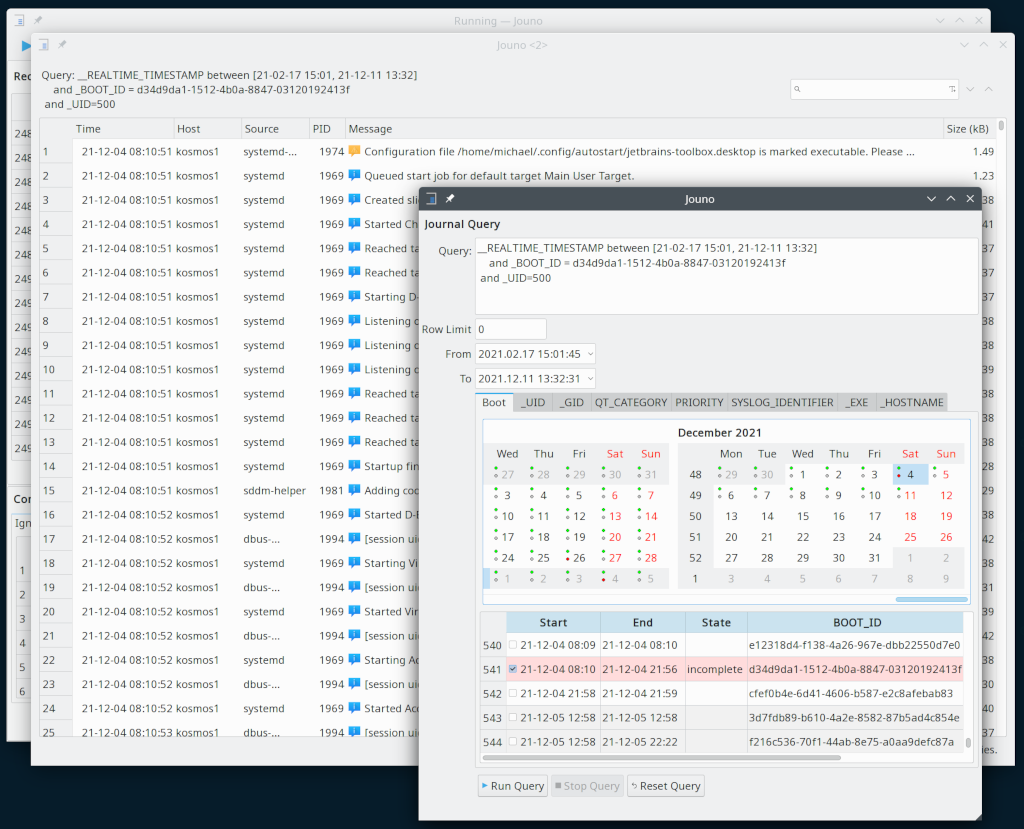
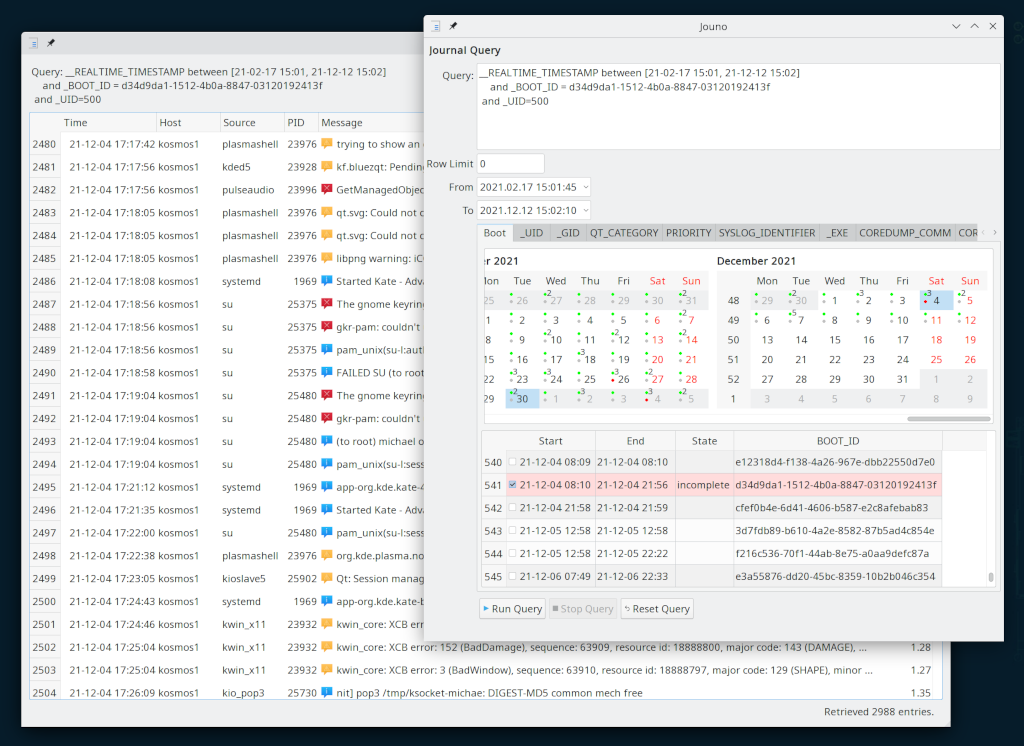
Experimental query facility for journal - updated screenshot showing boot counts.

diff --git a/jouno.py b/jouno.py
@@ -260,6 +260,7 @@ with this program. If not, see <https://www.gnu.org/licenses/>.
 
 import argparse
 import configparser
+import datetime as DT
 import grp
 import os
 import pwd
@@ -271,7 +272,6 @@ import sys
 import textwrap
 import time
 import traceback
-import datetime as DT
 from enum import Enum
 from functools import partial
 from html import escape
@@ -283,16 +283,15 @@ import dbus
 from PyQt5.QtCore import QCoreApplication, QProcess, Qt, pyqtSignal, QThread, QModelIndex, QItemSelectionModel, QSize, \
     QEvent, QSettings, QObject, QItemSelection, QPoint, QDateTime, QDate
 from PyQt5.QtGui import QPixmap, QIcon, QImage, QPainter, QStandardItemModel, QStandardItem, QIntValidator, \
-    QFontDatabase, QGuiApplication, QCloseEvent, QPalette, QTextCursor, QResizeEvent, QColor
+    QFontDatabase, QGuiApplication, QCloseEvent, QPalette, QTextCursor, QColor
 from PyQt5.QtSvg import QSvgRenderer
 from PyQt5.QtWidgets import QApplication, QWidget, QVBoxLayout, QMessageBox, QLineEdit, QLabel, \
     QPushButton, QSystemTrayIcon, QMenu, QTextEdit, QDialog, QTabWidget, \
     QCheckBox, QGridLayout, QTableView, \
     QAbstractItemView, QHeaderView, QMainWindow, QSizePolicy, QStyledItemDelegate, QToolBar, QDockWidget, \
     QHBoxLayout, QStyleFactory, QToolButton, QScrollArea, QLayout, QStatusBar, QDateTimeEdit, QCalendarWidget, \
-    QFormLayout, QGroupBox, QSpacerItem, QComboBox, QListWidget, QListWidgetItem, QTableWidgetItem, QTableWidget, \
+    QFormLayout, QGroupBox, QSpacerItem, QTableWidgetItem, QTableWidget, \
     QProgressDialog
-from PyQt5.uic.properties import QtWidgets
 from systemd import journal
 
 JOUNO_VERSION = '1.2.0'
@@ -505,7 +504,7 @@ with this program. If not, see <a href="https://www.gnu.org/licenses/">https://w
 """
 
 DEFAULT_QUERY_FIELDS = ['_UID', '_GID', 'QT_CATEGORY', 'PRIORITY', 'SYSLOG_IDENTIFIER',
-                        '_COM', '_EXE', '_HOSTNAME', 'COREDUMP_COMM', 'COREDUMP_EXE']
+                        '_COM', '_EXE', 'COREDUMP_COMM', 'COREDUMP_EXE', '_HOSTNAME',]
 
 DEFAULT_CONFIG = f'''
 [options]
